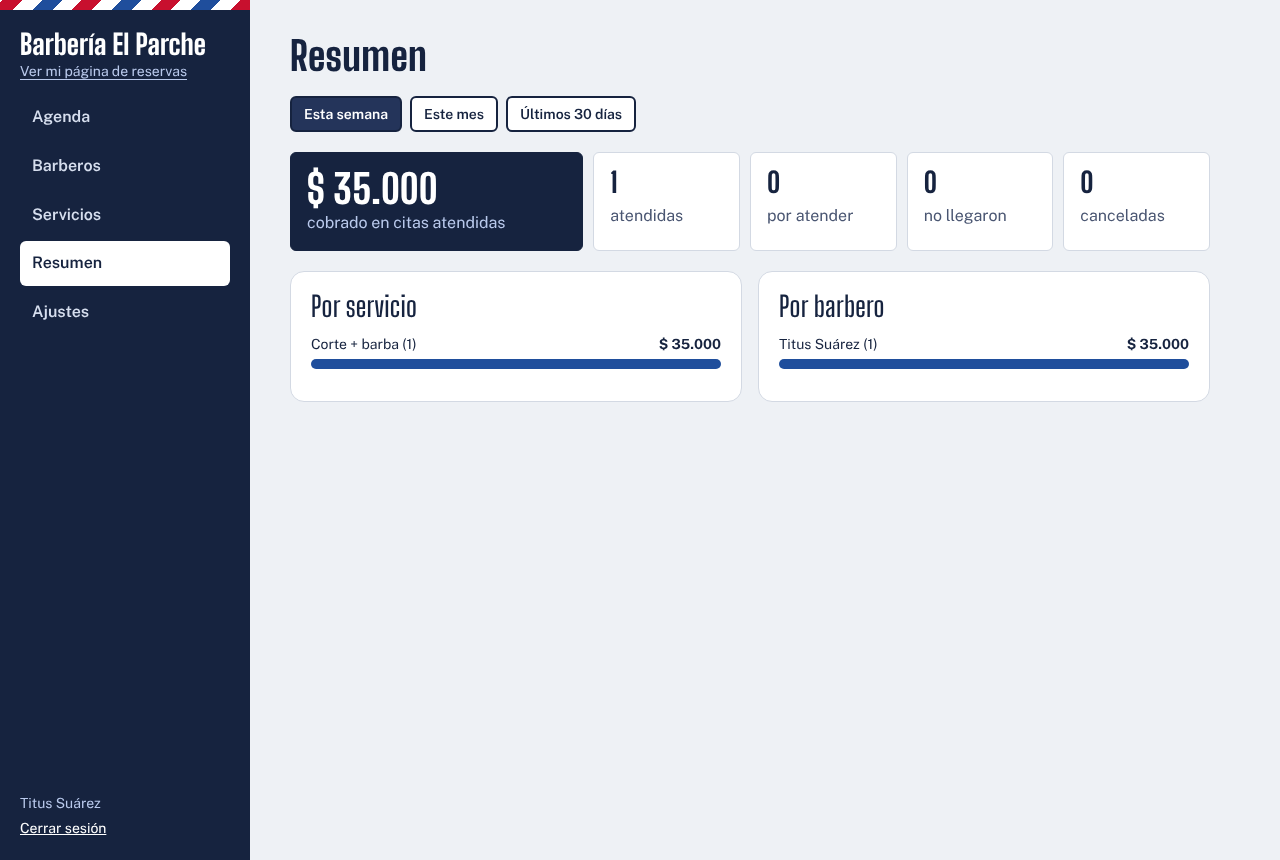
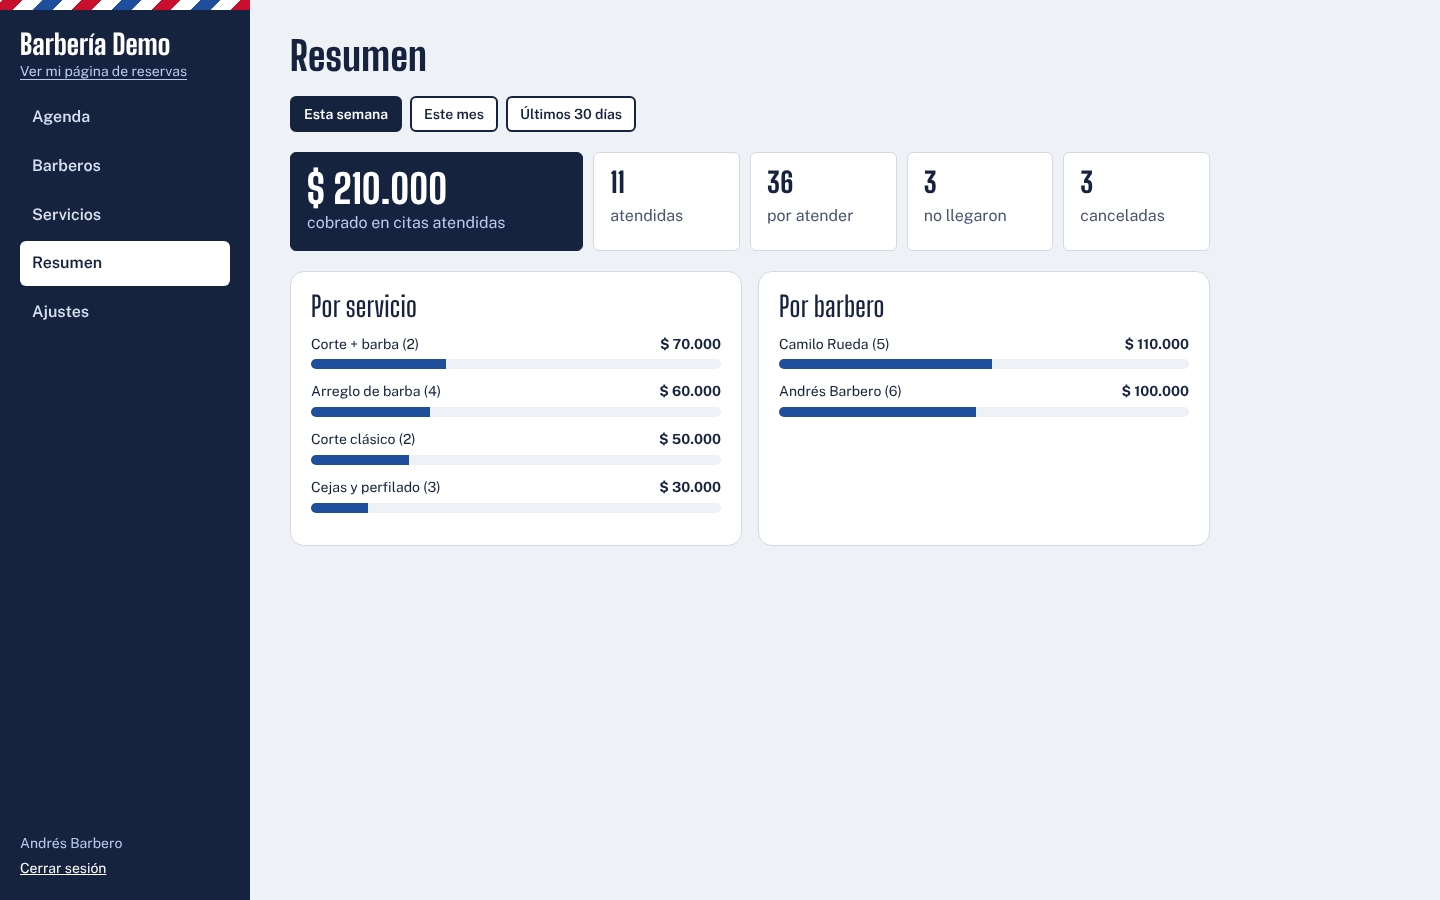
docs: más capturas de la app funcionando (reserva, resumen, servicios, Swagger)

diff --git a/README.md b/README.md
@@ -12,6 +12,23 @@ Cada barbería se registra y obtiene su propia página de reservas (`/el-parche`
   <img src="docs/screenshots/05-agenda.png" alt="Agenda del día en el panel" width="800">
 </p>
 
+<details>
+<summary><b>Más capturas</b></summary>
+
+<table>
+  <tr>
+    <td><img src="docs/screenshots/02-reserva-escritorio.png" alt="Reserva en escritorio" width="400"><br><sub>Reserva: servicio, barbero, día, hora y datos del cliente.</sub></td>
+    <td><img src="docs/screenshots/06-resumen.png" alt="Resumen de ventas" width="400"><br><sub>Resumen: cobrado, atendidas, no llegaron, por servicio y por barbero.</sub></td>
+  </tr>
+  <tr>
+    <td><img src="docs/screenshots/08-servicios.png" alt="Servicios" width="400"><br><sub>El dueño edita precios y duración de sus servicios.</sub></td>
+    <td><img src="docs/screenshots/09-swagger.png" alt="Swagger" width="400"><br><sub>API documentada con OpenAPI / Swagger.</sub></td>
+  </tr>
+</table>
+
+Capturas tomadas con la app corriendo en local y la barbería de demostración.
+</details>
+
 ## Funcionalidades
 
 **Para el cliente (sin crear cuenta)**
